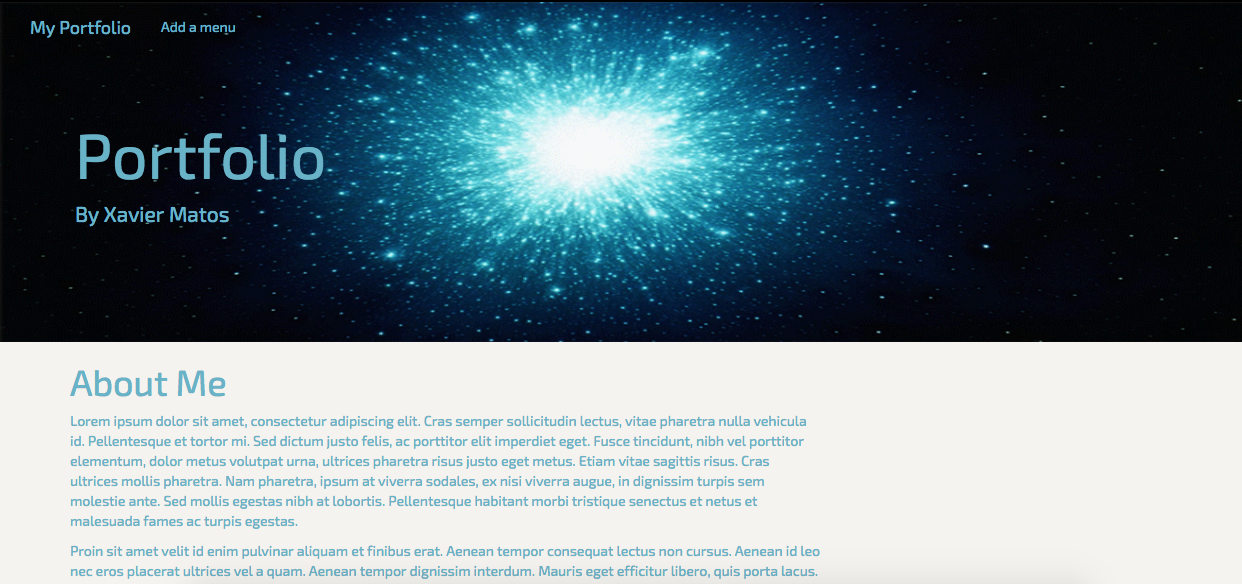
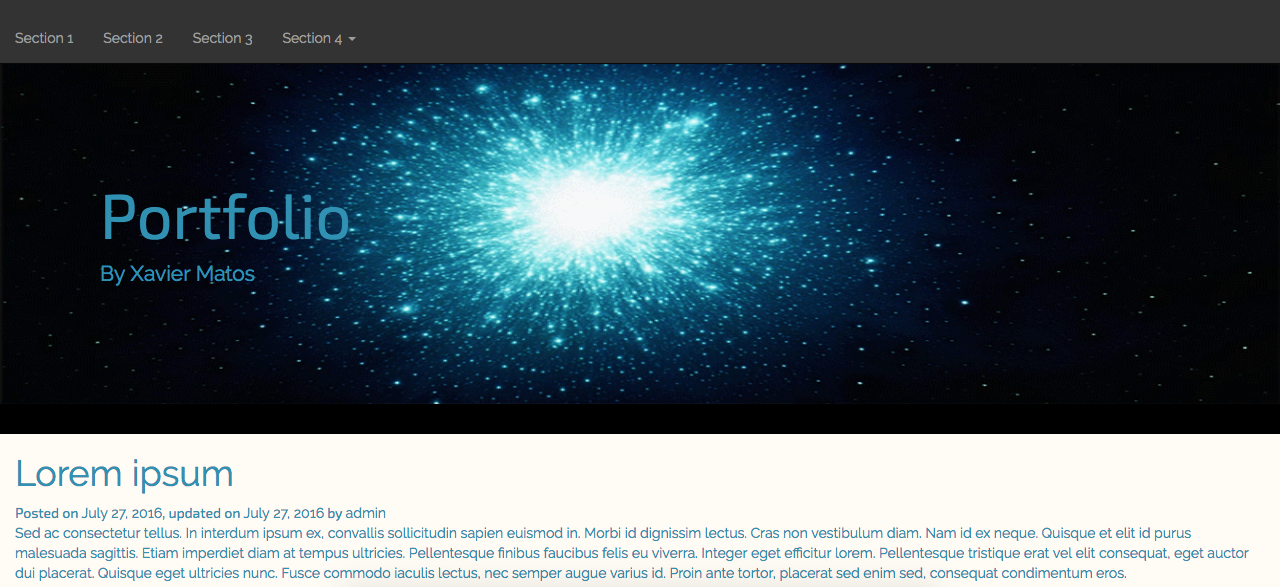
Add files via upload
Navbar and Jumbotron separated, Sticky Navbar added

diff --git a/style.css b/style.css
@@ -1,7 +1,7 @@
 /*
- Theme Name:   Tk Xavier Matos
+ Theme Name:   Tk Xavier Matos 2
  Theme URI:    http://example.com/twenty-fifteen-child/
- Description:  TK Child Theme
+ Description:  TK Child Theme2
  Author:       Xavier Matos
  Author URI:   http://example.com
  Template:     _tk-master
@@ -54,8 +54,7 @@ body {
 	background-color: #FFFCF5;
 }
 .site-navigation-inner{
-	background-image: url("https://media.giphy.com/media/ygAaR0n5RsyAM/giphy.gif");
- background-color: #cccccc;
+ background-color: #333;
  moz-background-size:100% 100%;
 -webkit-background-size:100% 100%;
 background-size:100% 100%;
@@ -82,6 +81,7 @@ body {
 }
  p {
  	font-family: 'Raleway', sans-serif;
+    color : #3091B2;
  }
  h2,h3,h4,h5,h6
  {
@@ -141,3 +141,101 @@ body {
 	font-family: 'Exo 2', sans-serif;
     text-decoration: none;
     }
+    code {
+    padding: 0px;
+}
+input[type=submit] {
+display: inline-block;
+    background-color: transparent;
+    border: 1px solid #3091B2;
+    border-radius: 1px;
+    color: #3091B2;
+    text-decoration: none;
+    transition: all 150ms linear;
+
+}
+.wpcf7-form-control .wpcf7-submit{
+    background-color: #FF8F5E;
+    color: #B33C12;
+}
+.navbar-default .navbar-nav>.active>a, .navbar-default .navbar-nav>.active>a:focus, .navbar-default .navbar-nav>.active>a:hover {
+    color: #427C89;
+    background-color: transparent;
+}
+body {
+      position: relative;
+  }
+  .navbar-collapse
+  {
+    padding: 0px;
+  }
+
+  }
+  #section1 {padding-top:100px;}
+  #section2 {padding-top:100px;}
+  #section3 {padding-top:100px;}
+  #section41 {padding-top:100px;}
+  #section42 {padding-top:100px;}
+  </style>
+
+  h1.page-title {
+    padding: 10px;
+  }
+#masthead {
+    padding-top: 100px;
+  }
+h4 {
+    color : white;
+}
+
+.col-md-8 {
+    width: 100%;
+}
+
+
+.navbar-default .navbar-nav>.active>a, .navbar-default .navbar-nav>.active>a:focus, .navbar-default .navbar-nav>.active>a:hover {
+    color: #555;
+    background-color: #e7e7e7;
+}
+.navbar {
+  padding : 0px;
+  margin: 0px;
+  border-radius: 0px;
+}
+.container-fluid {
+  padding: 0px;
+  margin :0px;
+  border-radius: 0px;
+}
+.container-fluid .jumbotron {
+    border-radius: 0px;
+    background-image: url("https://media.giphy.com/media/ygAaR0n5RsyAM/giphy.gif");
+ background-color: #cccccc;
+ moz-background-size:100% 100%;
+-webkit-background-size:100% 100%;
+background-size:100% 100%;
+background-repeat: no-repeat;
+color: #3091B2;
+padding: 100px;
+}
+.site-header {
+  padding: 0px;
+  background-color: black;
+}
+#masthead {
+    padding-top: 65px;
+}
+.navbar-inverse .navbar-collapse, .navbar-inverse .navbar-form {
+    border-color: #101010;
+    background-color: #333;
+}
+.navbar-inverse .navbar-nav>li>a {
+    color: #3091B2
+}
+.navbar-inverse .navbar-nav>li>a:focus, .navbar-inverse .navbar-nav>li>a:hover {
+    color: #427C89;
+    background-color: transparent;
+}
+.site-navigation-inner {
+  background-color: #333;
+}

diff --git a/header.php b/header.php
@@ -25,11 +25,10 @@
 
 <body <?php body_class(); ?>>
 	<?php do_action( 'before' ); ?>
-
+<body data-spy="scroll" data-target=".navbar" data-offset="50">
 <header id="masthead" class="site-header" role="banner">
 <?php // substitute the class "container-fluid" below if you want a wider content area ?>
 	<div class="container-fluid">
-		<div class="row">
 			<div class="site-header-inner col-sm-12">
 
 				<?php $header_image = get_header_image();
@@ -40,39 +39,24 @@
 				<?php } // end if ( ! empty( $header_image ) ) ?>
 
 
-				<div class="site-branding">
-					
-				</div>
-
 			</div>
 		</div>
-     <p>
-  
-     </p>
-  </div>
-  
-</div>
 	</div><!-- .container -->
 </header><!-- #masthead -->
 
-<nav class="site-navigation">
+<nav class="navbar navbar-inverse navbar-fixed-top">
 <?php // substitute the class "container-fluid" below if you want a wider content area ?>
 	<div class="container-fluid">
-		<div class="row">
 			<div class="site-navigation-inner col-sm-12">
-				<div class="navbar navbar-default">
 					<div class="navbar-header">
 						<!-- .navbar-toggle is used as the toggle for collapsed navbar content -->
-						<button type="button" class="navbar-toggle" data-toggle="collapse" data-target="#navbar-collapse">
-							<span class="sr-only"><?php _e('Toggle navigation','_tk') ?> </span>
-							<span class="icon-bar"></span>
-							<span class="icon-bar"></span>
-							<span class="icon-bar"></span>
-						</button>
-
-	
+						<button type="button" class="navbar-toggle" data-toggle="collapse" data-target="#myNavbar">
+         				 <span class="icon-bar"></span>
+          					<span class="icon-bar"></span>
+         					 <span class="icon-bar"></span>
+    					  </button>
+						</div>
 						<!-- Your site title as branding in the menu -->
-						<a class="navbar-brand" href="<?php echo esc_url( home_url( '/' ) ); ?>" title="<?php echo esc_attr( get_bloginfo( 'name', 'display' ) ); ?>" rel="home"><?php bloginfo( 'name' ); ?></a>
 					</div>
 
 					<!-- The WordPress Menu goes here -->
@@ -89,19 +73,32 @@
 							'walker' 			=> new wp_bootstrap_navwalker()
 						)
 					); ?>
-<div class = "jumbotron">
-     <h1>Portfolio</h1>
-     <p>By Xavier Matos</p>
-     
+
 				</div><!-- .navbar -->
 			</div>
 		</div>
 	</div><!-- .container -->
+	<div class="collapse navbar-collapse" id="myNavbar">
+        <ul class="nav navbar-nav">
+          <li><a href="#section1">Section 1</a></li>
+          <li><a href="#section2">Section 2</a></li>
+          <li><a href="#section3">Section 3</a></li>      
+          </li>
+        </ul>
+      </div>
+    </div>
+  </div>
+</nav>
+
 </nav><!-- .site-navigation -->
 
 <div class="main-content">
 <?php // substitute the class "container-fluid" below if you want a wider content area ?>
-	<div class="container">
-		<div class="row">
+	<div class="container-fluid">
+		<div class = "jumbotron">
+     <h1>Portfolio</h1>
+     <p>By Xavier Matos</p>
+     
+</div>
+	</div>
 			<div id="content" class="main-content-inner col-sm-12 col-md-8">
-
